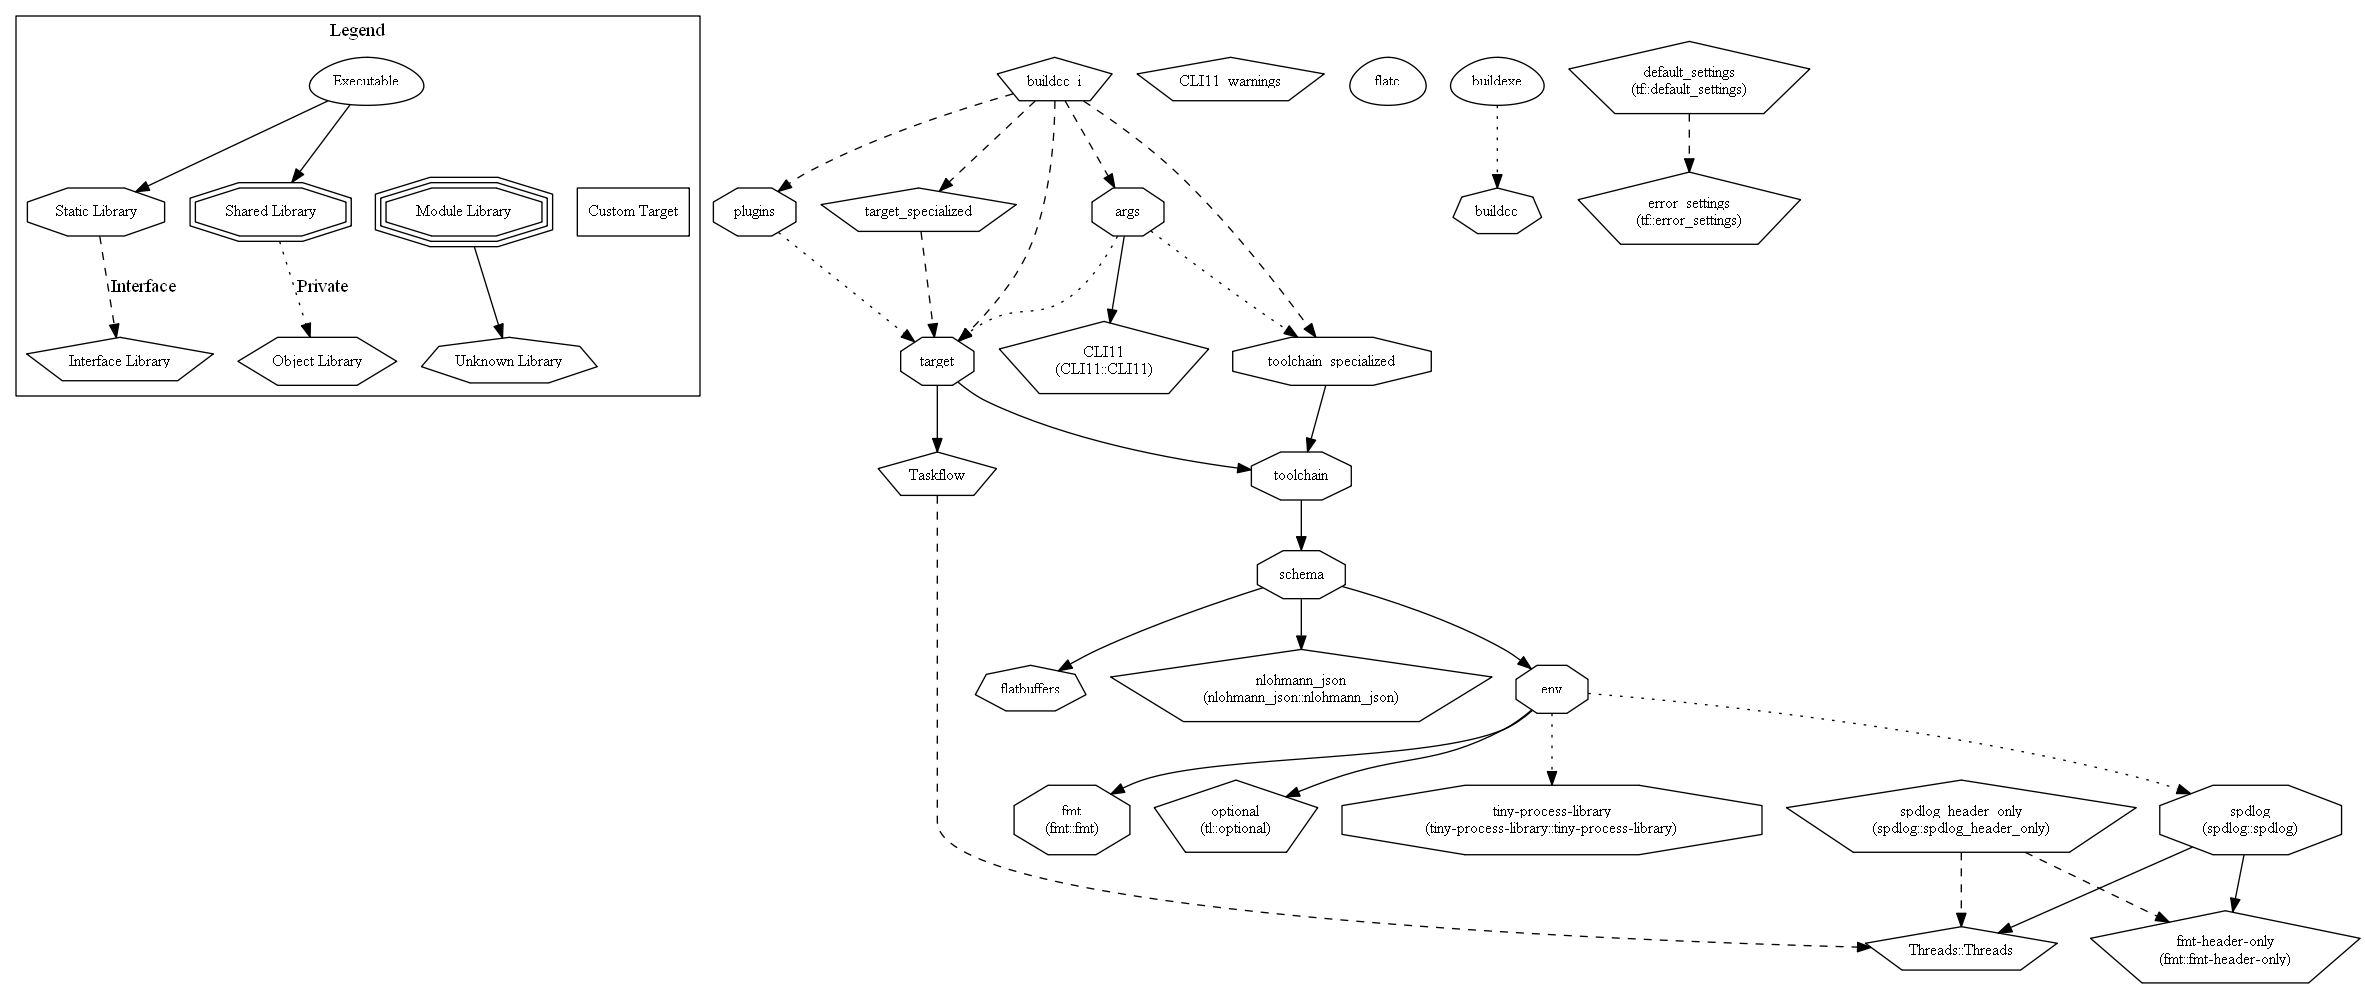
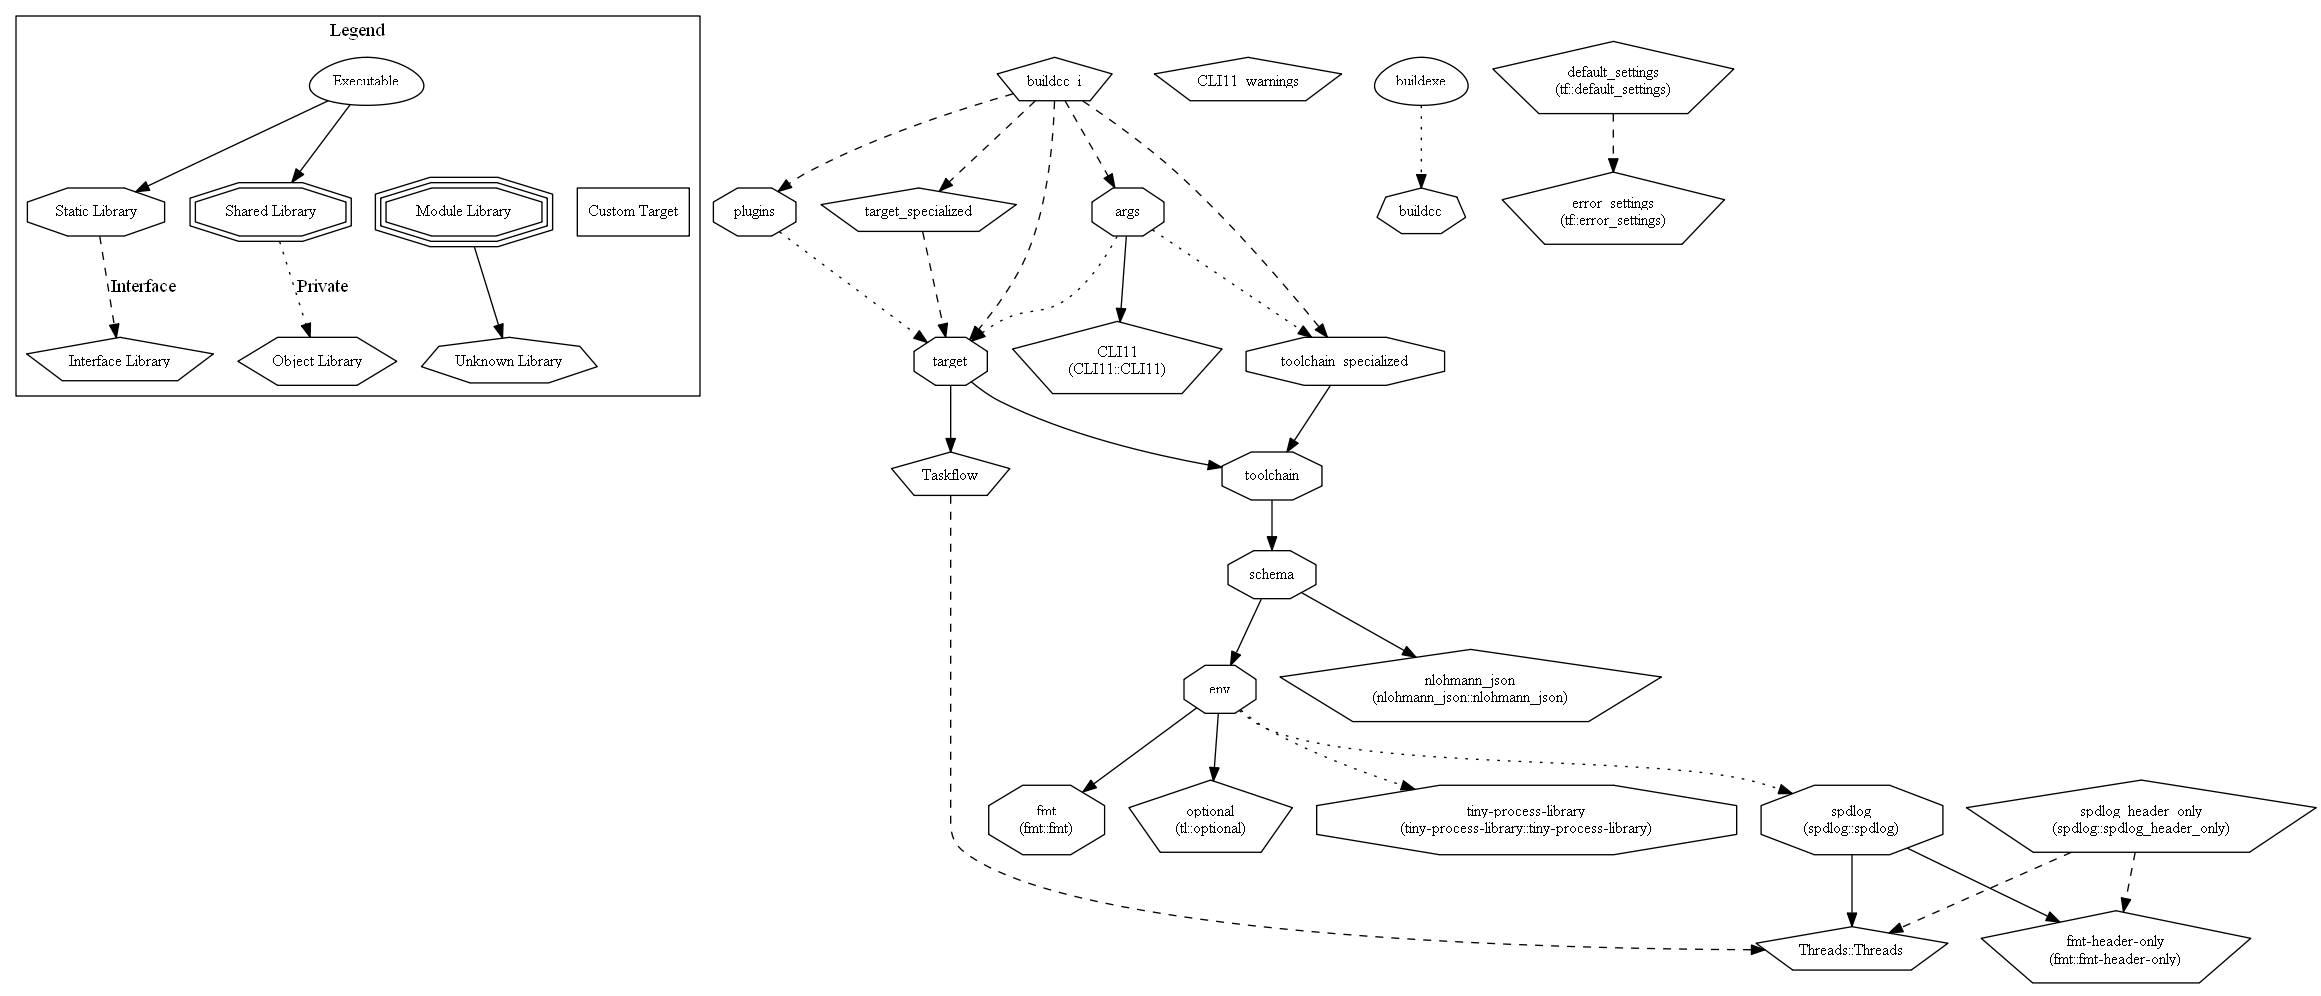
[Serialization] Removing flatbuffer/flexbuffer usage and library from BuildCC (#226)

diff --git a/bootstrap/src/build_buildcc.cpp b/bootstrap/src/build_buildcc.cpp
@@ -18,11 +18,10 @@
 
 namespace buildcc {
 
-void buildcc_cb(BaseTarget &target, const TargetInfo &flatbuffers_ho,
-                const TargetInfo &nlohmann_json_ho, const TargetInfo &fmt_ho,
-                const TargetInfo &spdlog_ho, const TargetInfo &cli11_ho,
-                const TargetInfo &taskflow_ho, const TargetInfo &tl_optional_ho,
-                const BaseTarget &tpl) {
+void buildcc_cb(BaseTarget &target, const TargetInfo &nlohmann_json_ho,
+                const TargetInfo &fmt_ho, const TargetInfo &spdlog_ho,
+                const TargetInfo &cli11_ho, const TargetInfo &taskflow_ho,
+                const TargetInfo &tl_optional_ho, const BaseTarget &tpl) {
   // NOTE, Build as single lib
   target.AddIncludeDir("", true);
 
@@ -87,9 +86,6 @@ void buildcc_cb(BaseTarget &target, const TargetInfo &flatbuffers_ho,
       SyncOption::IncludeDirs,
       SyncOption::HeaderFiles,
   };
-
-  // FLATBUFFERS HO
-  target.Insert(flatbuffers_ho, kInsertOptions);
 
   // NLOHMANN JSON HO
   target.Insert(nlohmann_json_ho, kInsertOptions);
@@ -175,17 +171,6 @@ static void global_flags_cb(TargetInfo &global_info,
 }
 
 void BuildBuildCC::Initialize() {
-  (void)storage_.Add<ExecutableTarget_generic>(
-      kFlatcExeName, kFlatcExeName, toolchain_,
-      TargetEnv(env_.GetTargetRootDir() / "third_party" / "flatbuffers",
-                env_.GetTargetBuildDir()));
-
-  // Flatbuffers HO lib
-  (void)storage_.Add<TargetInfo>(
-      kFlatbuffersHoName, toolchain_,
-      TargetEnv(env_.GetTargetRootDir() / "third_party" / "flatbuffers",
-                env_.GetTargetBuildDir()));
-
   // Nlohmann json HO lib
   (void)storage_.Add<TargetInfo>(
       kNlohmannJsonHoName, toolchain_,
@@ -240,7 +225,6 @@ void BuildBuildCC::Initialize() {
 }
 
 void BuildBuildCC::Setup(const ArgToolchainState &state) {
-  auto &flatbuffers_ho_lib = GetFlatbuffersHo();
   auto &nlohmann_json_ho_lib = GetNlohmannJsonHo();
   auto &cli11_ho_lib = GetCli11Ho();
   auto &fmt_ho_lib = GetFmtHo();
@@ -250,7 +234,6 @@ void BuildBuildCC::Setup(const ArgToolchainState &state) {
   auto &tpl_lib = GetTpl();
   auto &buildcc_lib = GetBuildcc();
   Reg::Toolchain(state)
-      .Func(flatbuffers_ho_cb, flatbuffers_ho_lib)
       .Func(nlohmann_json_ho_cb, nlohmann_json_ho_lib)
       .Func(cli11_ho_cb, cli11_ho_lib)
       .Func(fmt_ho_cb, fmt_ho_lib)
@@ -260,9 +243,9 @@ void BuildBuildCC::Setup(const ArgToolchainState &state) {
       .Func(global_flags_cb, tpl_lib, toolchain_)
       .Build(tpl_cb, tpl_lib)
       .Func(global_flags_cb, buildcc_lib, toolchain_)
-      .Build(buildcc_cb, buildcc_lib, flatbuffers_ho_lib, nlohmann_json_ho_lib,
-             fmt_ho_lib, spdlog_ho_lib, cli11_ho_lib, taskflow_ho_lib,
-             tl_optional_ho_lib, tpl_lib)
+      .Build(buildcc_cb, buildcc_lib, nlohmann_json_ho_lib, fmt_ho_lib,
+             spdlog_ho_lib, cli11_ho_lib, taskflow_ho_lib, tl_optional_ho_lib,
+             tpl_lib)
       .Dep(buildcc_lib, tpl_lib);
 }
 

diff --git a/bootstrap/include/bootstrap/build_buildcc.h b/bootstrap/include/bootstrap/build_buildcc.h
@@ -20,7 +20,6 @@
 #include "buildcc.h"
 
 #include "build_cli11.h"
-#include "build_flatbuffers.h"
 #include "build_fmtlib.h"
 #include "build_nlohmann_json.h"
 #include "build_spdlog.h"
@@ -30,11 +29,10 @@
 
 namespace buildcc {
 
-void buildcc_cb(BaseTarget &target, const TargetInfo &flatbuffers_ho,
-                const TargetInfo &nlohmann_json_ho, const TargetInfo &fmt_ho,
-                const TargetInfo &spdlog_ho, const TargetInfo &cli11_ho,
-                const TargetInfo &taskflow_ho, const TargetInfo &tl_optional_ho,
-                const BaseTarget &tpl);
+void buildcc_cb(BaseTarget &target, const TargetInfo &nlohmann_json_ho,
+                const TargetInfo &fmt_ho, const TargetInfo &spdlog_ho,
+                const TargetInfo &cli11_ho, const TargetInfo &taskflow_ho,
+                const TargetInfo &tl_optional_ho, const BaseTarget &tpl);
 
 /**
  * @brief
@@ -43,7 +41,6 @@ void buildcc_cb(BaseTarget &target, const TargetInfo &flatbuffers_ho,
 class BuildBuildCC {
 public:
   // TargetInfo / Header Only
-  static constexpr const char *const kFlatbuffersHoName = "flatbuffers_ho";
   static constexpr const char *const kNlohmannJsonHoName = "nlohmann_json_ho";
   static constexpr const char *const kCli11HoName = "cli11_ho";
   static constexpr const char *const kFmtHoName = "fmtlib_ho";
@@ -77,12 +74,6 @@ public:
 
 private:
   void Initialize();
-  ExecutableTarget_generic &GetFlatc() {
-    return storage_.Ref<ExecutableTarget_generic>(kFlatcExeName);
-  }
-  TargetInfo &GetFlatbuffersHo() {
-    return storage_.Ref<TargetInfo>(kFlatbuffersHoName);
-  }
   TargetInfo &GetNlohmannJsonHo() {
     return storage_.Ref<TargetInfo>(kNlohmannJsonHoName);
   }

diff --git a/buildcc/lib/target/src/generator/file_generator.cpp b/buildcc/lib/target/src/generator/file_generator.cpp
@@ -18,8 +18,6 @@
 
 #include <algorithm>
 
-#include "flatbuffers/flexbuffers.h"
-
 #include "env/assert_fatal.h"
 
 namespace {
@@ -32,11 +30,9 @@ public:
   // serialized_data has already been verified
   static std::vector<std::string>
   Deserialize(const std::vector<uint8_t> &serialized_data) {
+    json j = json::from_msgpack(serialized_data, true, false);
     std::vector<std::string> deserialized;
-    auto flex_vect = flexbuffers::GetRoot(serialized_data).AsVector();
-    for (size_t i = 0; i < flex_vect.size(); i++) {
-      deserialized.emplace_back(flex_vect[i].AsString().str());
-    }
+    j.get_to(deserialized);
     return deserialized;
   }
 
@@ -44,17 +40,8 @@ private:
   const std::vector<std::string> &commands_;
 
   bool Verify(const std::vector<uint8_t> &serialized_data) const override {
-    auto flex_ref = flexbuffers::GetRoot(serialized_data);
-    if (!flex_ref.IsVector()) {
-      return false;
-    }
-    auto flex_vect = flex_ref.AsVector();
-    for (size_t i = 0; i < flex_vect.size(); i++) {
-      if (!flex_vect[i].IsString()) {
-        return false;
-      }
-    }
-    return true;
+    json j = json::from_msgpack(serialized_data, true, false);
+    return !j.is_discarded();
   }
 
   bool IsEqual(const std::vector<uint8_t> &previous,
@@ -63,14 +50,8 @@ private:
   }
 
   std::vector<uint8_t> Serialize() const override {
-    flexbuffers::Builder builder;
-    builder.Vector([&]() {
-      for (const auto &c : commands_) {
-        builder.Add(c);
-      }
-    });
-    builder.Finish();
-    return builder.GetBuffer();
+    json j = commands_;
+    return json::to_msgpack(j);
   }
 };
 

diff --git a/buildcc/lib/target/test/target/test_custom_generator.cpp b/buildcc/lib/target/test/target/test_custom_generator.cpp
@@ -4,8 +4,6 @@
 #include "expect_custom_generator.h"
 #include "test_target_util.h"
 
-#include "flatbuffers/flexbuffers.h"
-
 #include <memory>
 
 // NOTE, Make sure all these includes are AFTER the system and header includes
@@ -986,7 +984,8 @@ private:
 
 private:
   bool Verify(const std::vector<uint8_t> &serialized_data) const override {
-    return flexbuffers::GetRoot(serialized_data).IsInt();
+    json j = json::from_msgpack(serialized_data);
+    return !j.is_discarded();
   }
 
   bool IsEqual(const std::vector<uint8_t> &previous,
@@ -995,15 +994,16 @@ private:
   }
 
   std::vector<uint8_t> Serialize() const override {
-    flexbuffers::Builder builder;
-    builder.Add(recheck_value);
-    builder.Finish();
-    return builder.GetBuffer();
+    json j = recheck_value;
+    return json::to_msgpack(j);
   }
 
   // serialized_data has already been verified
   int32_t Deserialize(const std::vector<uint8_t> &serialized_data) const {
-    return flexbuffers::GetRoot(serialized_data).AsInt32();
+    json j = json::from_msgpack(serialized_data);
+    int32_t deserialized;
+    j.get_to(deserialized);
+    return deserialized;
   }
 };
 

diff --git a/buildexe/buildexe.cpp b/buildexe/buildexe.cpp
@@ -22,12 +22,6 @@
 #include "buildexe/toolchain_setup.h"
 
 #include "bootstrap/build_buildcc.h"
-#include "bootstrap/build_cli11.h"
-#include "bootstrap/build_flatbuffers.h"
-#include "bootstrap/build_fmtlib.h"
-#include "bootstrap/build_spdlog.h"
-#include "bootstrap/build_taskflow.h"
-#include "bootstrap/build_tpl.h"
 
 using namespace buildcc;
 

diff --git a/bootstrap/main.buildcc.cpp b/bootstrap/main.buildcc.cpp
@@ -17,7 +17,6 @@
 #include "buildcc.h"
 
 #include "bootstrap/build_cli11.h"
-#include "bootstrap/build_flatbuffers.h"
 #include "bootstrap/build_fmtlib.h"
 #include "bootstrap/build_spdlog.h"
 #include "bootstrap/build_taskflow.h"

diff --git a/README.md b/README.md
@@ -27,7 +27,6 @@ Build C, C++ and ASM files in C++
   - `C++17 filesystem` library support
   - `C++11 thread` library support
 - Third Party Libraries (See License below)
-  - Flatbuffers v2.0.0
   - Nlohmann::Json v3.11.2
   - Taskflow v3.1.0
   - CLI11 v2.1.0
@@ -178,7 +177,6 @@ _BuildCC_ is licensed under the Apache License, Version 2.0. See [LICENSE](LICEN
 - [Taskflow](https://github.com/taskflow/taskflow) (Parallel Programming) [MIT License] [Header Only]
   - See also [3rd-Party](https://github.com/taskflow/taskflow/tree/master/3rd-party) used by Taskflow
 - [Nlohmann::Json](https://github.com/nlohmann/json) (JSON Serialization) [MIT License] [Header Only]
-- [Flatbuffers](https://github.com/google/flatbuffers) (Serialization) [Apache-2.0 License]
 - [CLI11](https://github.com/CLIUtils/CLI11) (Argument Parsing) [BSD-3-Clause License] [Header Only]
 - [CppUTest](https://github.com/cpputest/cpputest) (Unit Testing/Mocking) [BSD-3-Clause License]
 - [Tl::Optional](https://github.com/TartanLlama/optional) (Optional support) [CC0-1.0 License]

diff --git a/docs/source/intro/toc.rst b/docs/source/intro/toc.rst
@@ -25,7 +25,7 @@ Pre-requisites
    * C++17 filesystem library support
    * C++11 thread library support
 * Third Party Libraries (See License below)
-   * Flatbuffers v2.0.0
+   * JSON v3.11.2
    * Taskflow v3.1.0
    * CLI11 v2.1.0
    * Tiny Process Library v2.0.4
@@ -68,6 +68,6 @@ Licenses
 * `Tiny Process Library <https://gitlab.com/eidheim/tiny-process-library>`_ (Process handling) [MIT License]
 * `Taskflow <https://github.com/taskflow/taskflow>`_ (Parallel Programming) [MIT License] [Header Only]
    * See also `3rd-Party <https://github.com/taskflow/taskflow/tree/master/3rd-party>`_ used by Taskflow
-* `Flatbuffers <https://github.com/google/flatbuffers>`_ (Serialization) [Apache-2.0 License] [Header Only]
+* `Nlohmann::Json <https://github.com/nlohmann/json>`_ (Serialization) [MIT License] [Header Only]
 * `CLI11 <https://github.com/CLIUtils/CLI11>`_ (Argument Parsing) [BSD-3-Clause License] [Header Only]
 * `CppUTest <https://github.com/cpputest/cpputest>`_ (Unit Testing/Mocking) [BSD-3-Clause License]

diff --git a/docs/source/examples/gcc.rst b/docs/source/examples/gcc.rst
@@ -218,7 +218,7 @@ Use BuildCC with CMake
     # fmt is imported by spdlog by default
     find_package(fmt_package NAMES "fmt" REQUIRED)
     find_package(spdlog_package NAMES "spdlog" REQUIRED)
-    find_package(flatbuffers_package NAMES "flatbuffers" REQUIRED)
+    find_package(nlohmann_json_package NAMES "nlohmann_json" REQUIRED)
     find_package(taskflow_package NAMES "Taskflow" "taskflow" REQUIRED)
     find_package(CLI11_package NAMES "CLI11" REQUIRED)
     find_package(tiny_process_library_package NAMES "tiny-process-library" REQUIRED)
@@ -227,7 +227,7 @@ Use BuildCC with CMake
 
     message("Find package: ${fmt_package_DIR}")
     message("Find package: ${spdlog_package_DIR}")
-    message("Find package: ${flatbuffers_package_DIR}")
+    message("Find package: ${nlohmann_json_package_DIR}")
     message("Find package: ${taskflow_package_DIR}")
     message("Find package: ${CLI11_package_DIR}")
     message("Find package: ${tiny_process_library_package_DIR}") #

diff --git a/docs/source/arch/software_heirarchy.rst b/docs/source/arch/software_heirarchy.rst
@@ -11,7 +11,7 @@ BuildCC single lib
 
 .. uml::
    
-   rectangle Flatbuffers as flatbuffers
+   rectangle JSON as json
    rectangle fmt as fmt
    rectangle spdlog as spdlog
    rectangle Taskflow as taskflow
@@ -20,7 +20,7 @@ BuildCC single lib
 
    rectangle BuildCC as buildcc
 
-   flatbuffers -up-> buildcc
+   json -up-> buildcc
    fmt -up-> buildcc
    spdlog -up-> buildcc
    taskflow -up-> buildcc
@@ -39,7 +39,7 @@ BuildCC interface lib
 
 .. uml::
 
-   rectangle Flatbuffers as flatbuffers #palegreen
+   rectangle JSON as json #palegreen
    rectangle fmt as fmt #palegreen
    rectangle spdlog as spdlog #palegreen
    rectangle Taskflow as taskflow #palegreen
@@ -65,7 +65,7 @@ BuildCC interface lib
    cli11 -up-> args
    taskflow -up-> register
 
-   flatbuffers .up.> schema
+   json .up.> schema
    env -up-> schema
 
    schema -up-> toolchain

diff --git a/docs/source/arch/testing.rst b/docs/source/arch/testing.rst
@@ -37,17 +37,13 @@ mock_toolchain
 mock_target
 ^^^^^^^^^^^^
 
-.. doxygenfunction:: GeneratorRunner
+.. doxygenfunction:: CustomGeneratorRunner
 
-.. doxygenfunction:: GeneratorExpect_InputRemoved
+.. doxygenfunction:: CustomGeneratorExpect_IdRemoved
 
-.. doxygenfunction:: GeneratorExpect_InputAdded
+.. doxygenfunction:: CustomGeneratorExpect_IdAdded
 
-.. doxygenfunction:: GeneratorExpect_InputUpdated
-
-.. doxygenfunction:: GeneratorExpect_OutputChanged
-
-.. doxygenfunction:: GeneratorExpect_CommandChanged
+.. doxygenfunction:: CustomGeneratorExpect_IdUpdated
 
 From the :doc:`serialization_schema` **generator** we can see that our generator has 3 rebuild conditions
 

diff --git a/DEPENDENCIES.md b/DEPENDENCIES.md
@@ -2,13 +2,21 @@
 
 These third party libraries are added as submodules since they aren't meant to be modified by this project.
 
+### Adding a submodule
+
 `git submodule add [git_url] third_party/[foldername]`
+
+### Removing a submodule
+
+- `git rm --cached path_to_submodule` (no trailing slash)
+- Delete relevant line from `.gitmodules` file
+- Delete relevant section from `.git/config` file
 
 ## Main
 
 - fmt (Formatting)
 - spdlog (Logging)
-- flatbuffers (Serialization)
+- json (Serialization)
 - CLI11 (Argument Parsing)
 - Taskflow (Parallel Programming)
 
